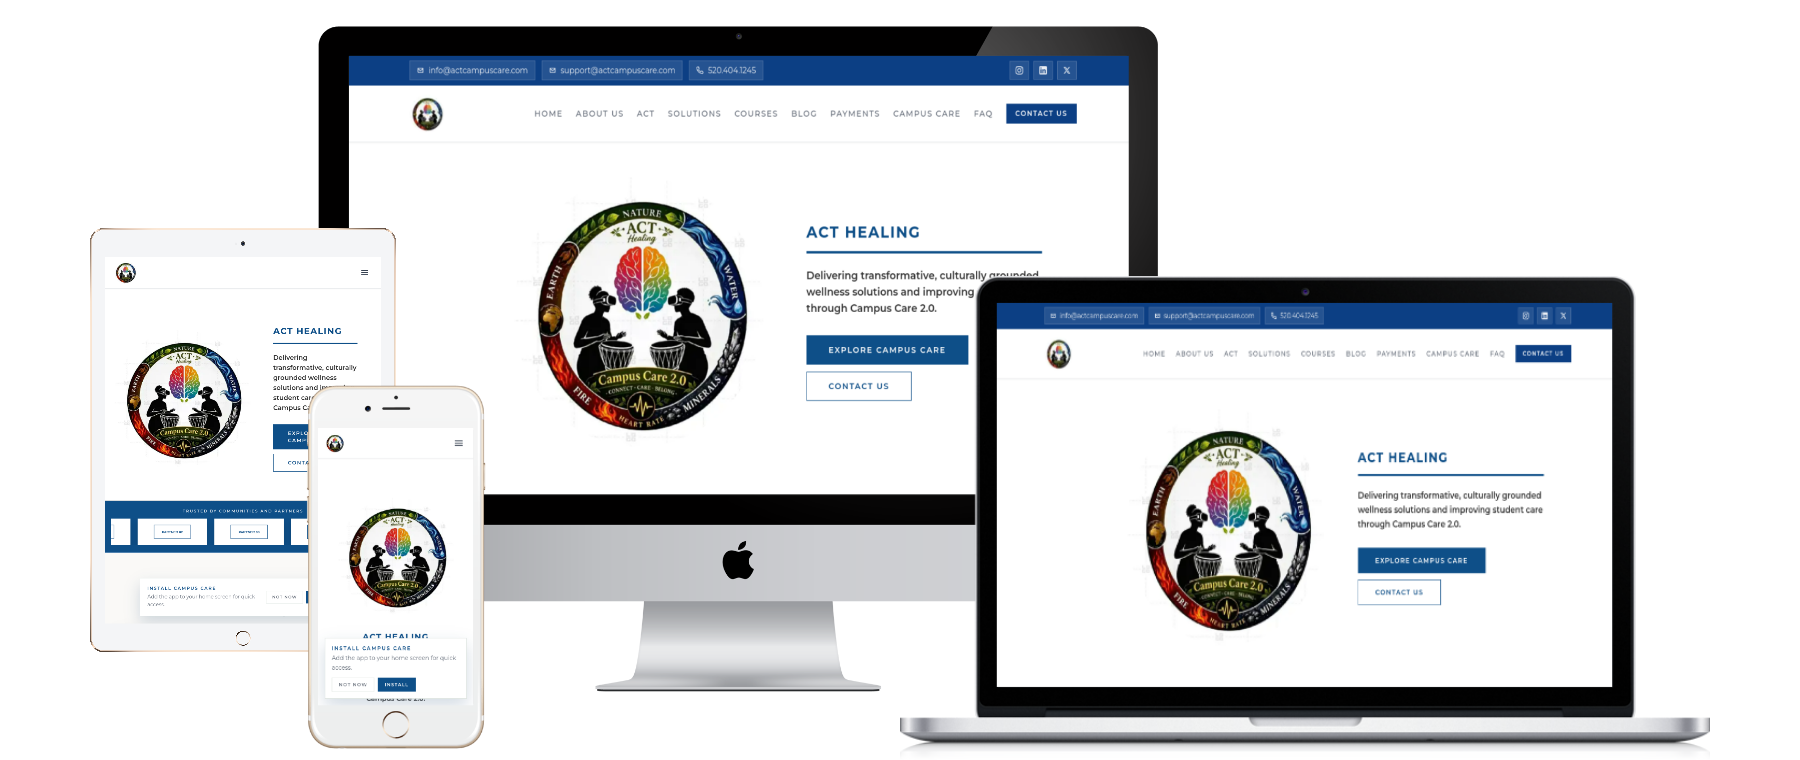
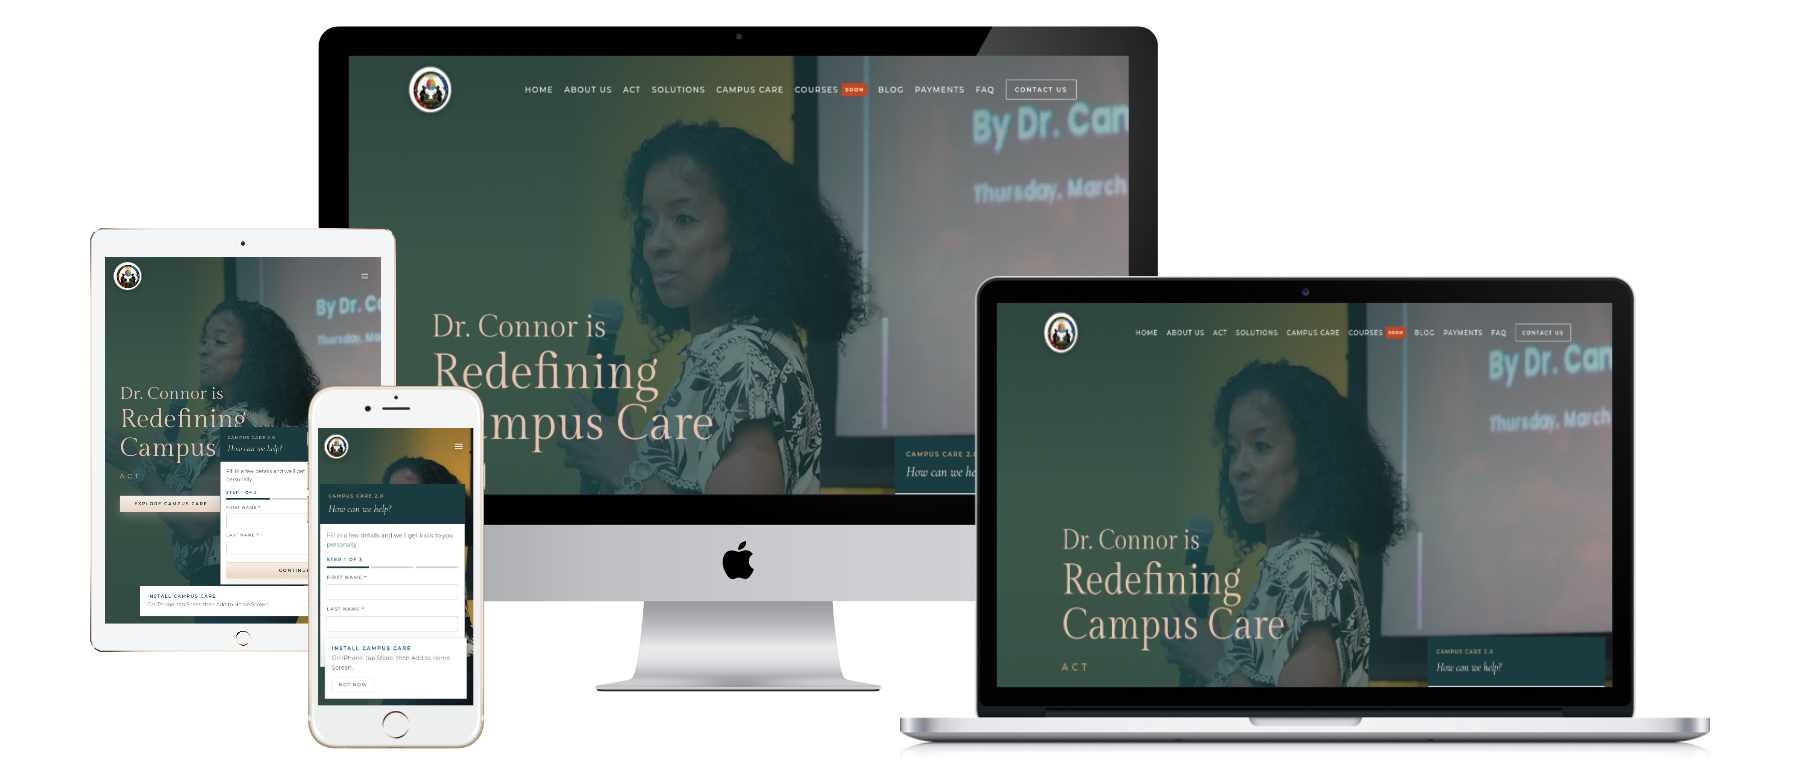
Update Finance Tracker and ACT Campus Care portfolio images.
Pull new screenshots from main and wire updated paths across portfolio,
homepage hero, and project data. Regenerate finance.webp and the campus
care client logo jpg from the new source assets.

diff --git a/data/projects.js b/data/projects.js
@@ -9,7 +9,7 @@ const projects = [
     clientCountry: "United States",
     description: "Campus Care 2.0 is a culturally grounded, bio-responsive virtual reality wellness platform created by ACT Healing. The website introduces HBCU students and campus communities to immersive tools for regulating stress, strengthening resilience, and supporting restorative healing.",
     image: "/png/projects/act-campus-care.png",
-    desktopImage: "/portfolio/desktop/act-campus-care.png",
+    desktopImage: "/portfolio/desktop/campus-care.png",
     mobileImage: "/portfolio/mobile/act-campus-care.png",
     screenshot: "/png/screenshots/act-campus-care.webp",
     link: "https://www.actcampuscare.com",
@@ -738,8 +738,8 @@ const projects = [
     description: "Managing personal finances can be overwhelming — so we built a solution. Finance Tracker is a full-stack web application that helps users take full control of their money. Features include income and expense tracking, budget management, and intuitive data visualizations and reports that turn complex financial data into clear, actionable insights.",
     image: "/png/projects/finance-tracker.png",
     desktopImage: "/portfolio/desktop/finance.png",
-    mobileImage: "/portfolio/mobile/finance.png",
-    screenshot: "/png/screenshots/finance-tracker-full.webp",
+    mobileImage: "/portfolio/mobile/finance-tracker.png",
+    screenshot: "/png/screenshots/finance-tracker.png",
     link: "https://finance-tracker-muiu.onrender.com/",
     tech: ["HTML5", "CSS3", "Django", "Python", "Github", "Render"],
     techLogos: [

diff --git a/pages/portfolio.js b/pages/portfolio.js
@@ -25,7 +25,7 @@ const PORTFOLIO_IMAGES = {
   "doeman-group": "/png/screenshots/doeman-screenshot.webp",
   "adbay-store": "/png/screenshots/adbay-full.webp",
   "elolo-agbleke-website": "/png/screenshots/elolo-full.webp",
-  "finance-tracker": "/png/screenshots/finance-tracker-full.webp",
+  "finance-tracker": "/png/screenshots/finance-tracker.png",
   "ghana-updates-online": "/png/screenshots/ghanaupdates-full.webp",
   "myspace-furniture": "/png/screenshots/myspace-furniture.webp",
   "valyd-homes": "/png/screenshots/valyd.webp",

diff --git a/pages/index.js b/pages/index.js
@@ -194,7 +194,7 @@ const portfolioItems = [
     description: "A culturally grounded VR wellness platform helping HBCU students regulate stress and build resilience.",
     tech: ["Next.js", "React", "TypeScript", "Sanity CMS", "Tailwind CSS"],
     link: "/portfolio/act-campus-care",
-    image: "/portfolio/desktop/act-campus-care.png",
+    image: "/portfolio/desktop/campus-care.png",
     accent: "#0e4f88"
   },
   {

diff --git a/components/HeroSwiper.js b/components/HeroSwiper.js
@@ -27,7 +27,7 @@ const heroSlides = [
     caseStudyLabel: 'VIEW PROJECT',
     ctaLink: '/contact',
     ctaLabel: 'START YOUR PROJECT',
-    mainImage: '/portfolio/desktop/act-campus-care.png',
+    mainImage: '/portfolio/desktop/campus-care.png',
     bgColor: 'from-blue-950 via-sky-900 to-indigo-950',
   },
   {
